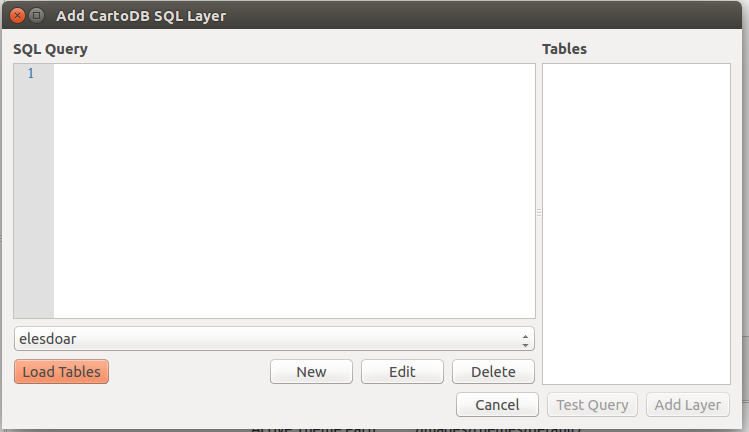
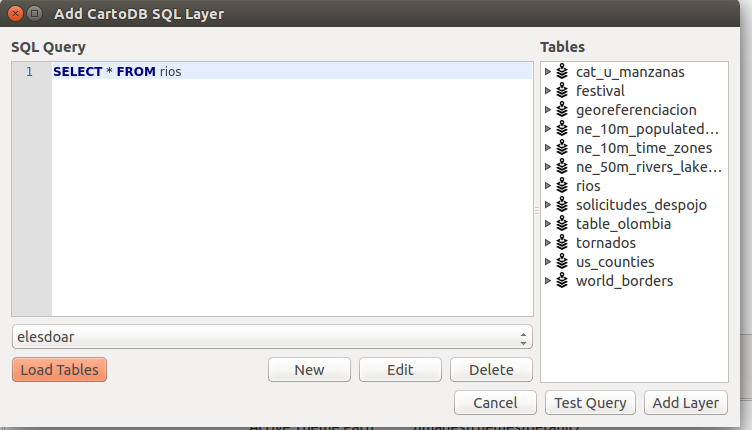
SQL Screenshot

Changed region(s): [[0.0, 0.0, 1.0, 1.0], [0.3071, 0.9674, 0.522, 1.0], [0.3685, 0.8465, 0.5527, 0.907]]

diff --git a/README.md b/README.md
@@ -81,6 +81,12 @@ Voilá !!!!
 
 ![Voilá](images/layer.png?raw=true "Voilá !!!")
 
+#### Adding SQL CartoDB layer
+
+Click on the icon: ![Icon](images/add_sql.png?raw=true "Icon") or on the web menu item "CartoDB Plugin" => "Add SQL CartoDB Layer"
+
+![Dialog 3](images/sql_dialog.png?raw=true "Adding SQL layer")
+
 ## Dependencies
 
 * [CartoDB](https://github.com/Vizzuality/cartodb-python)
